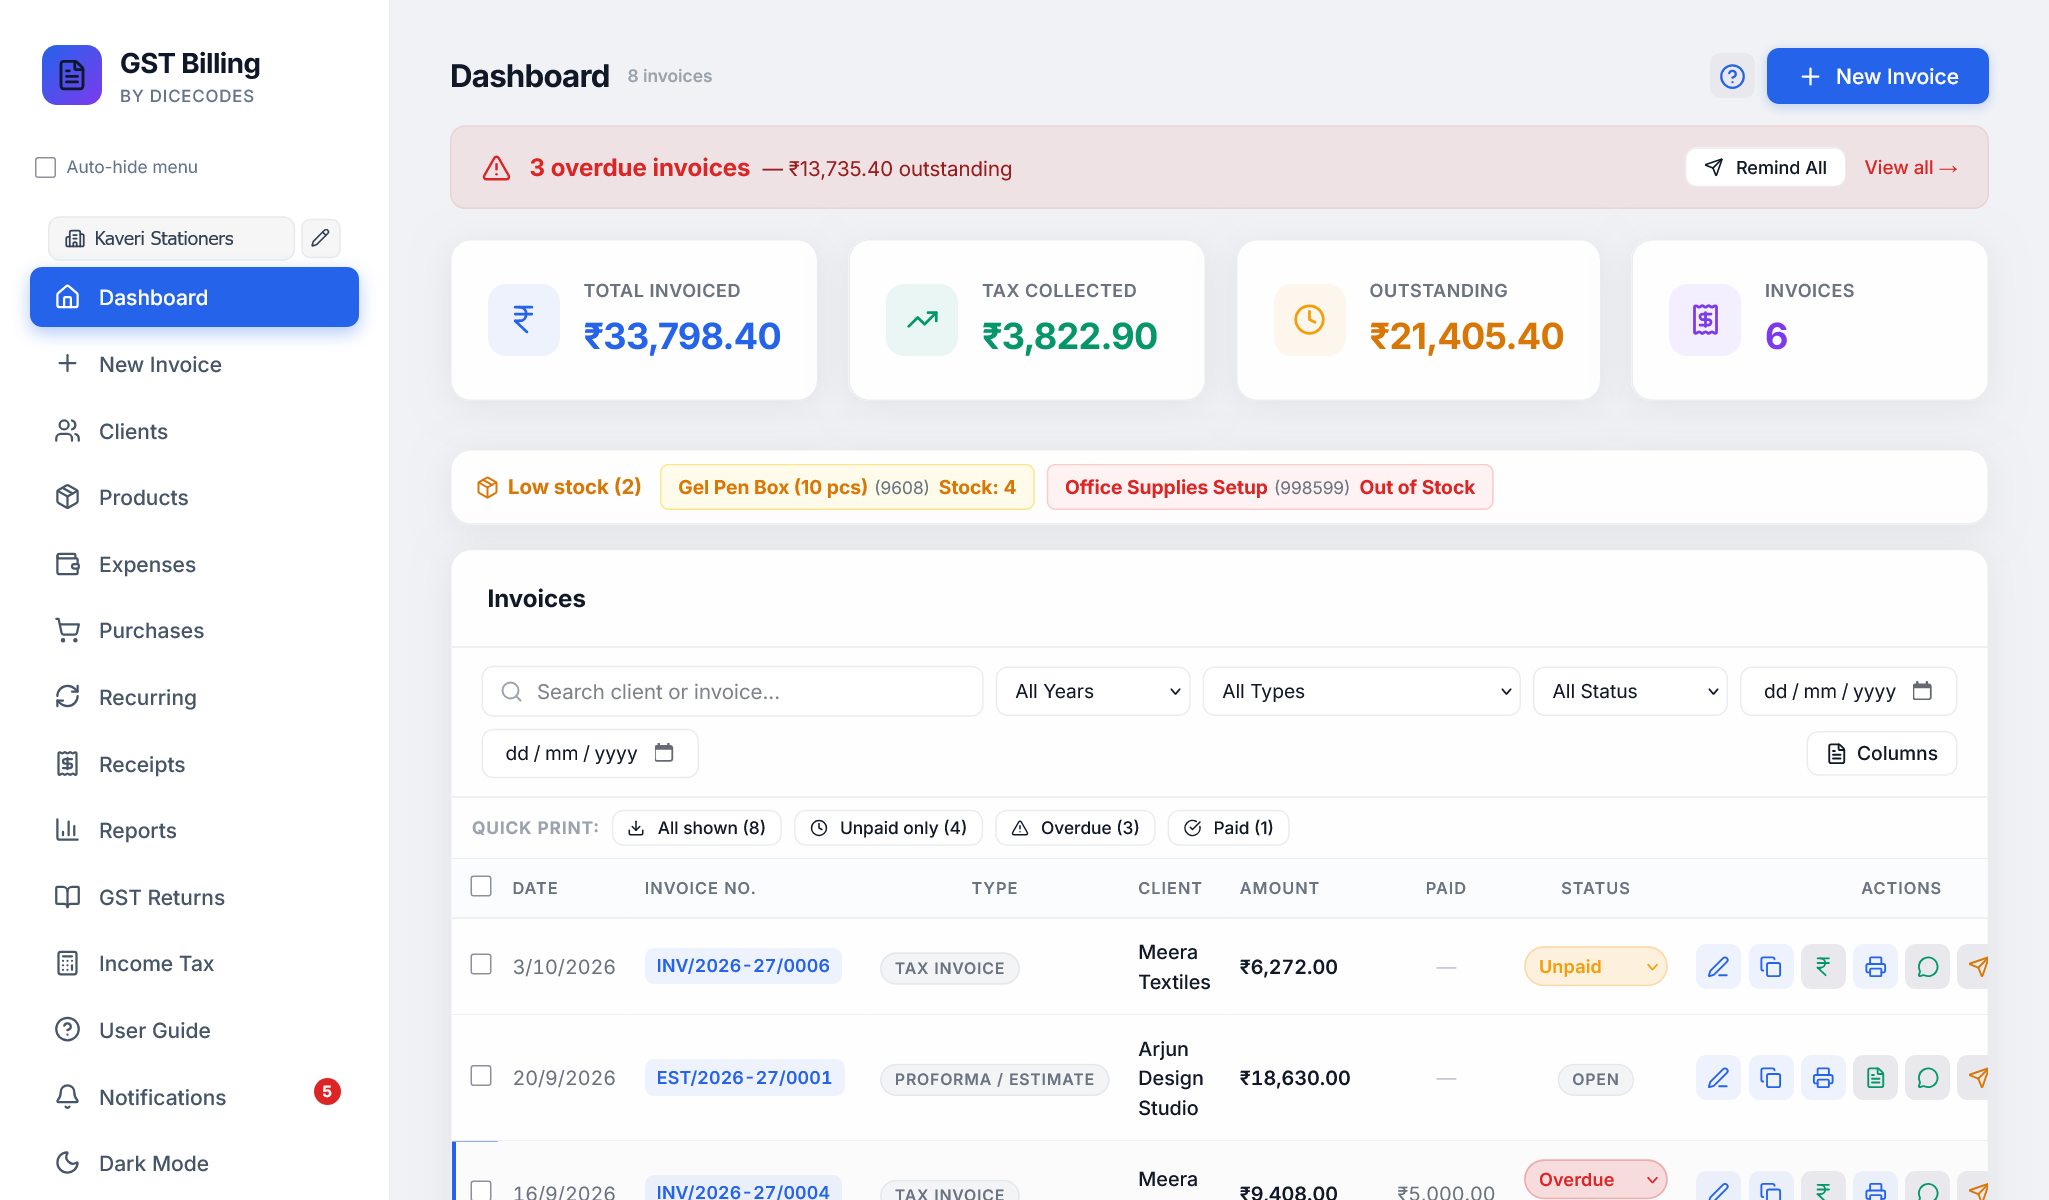
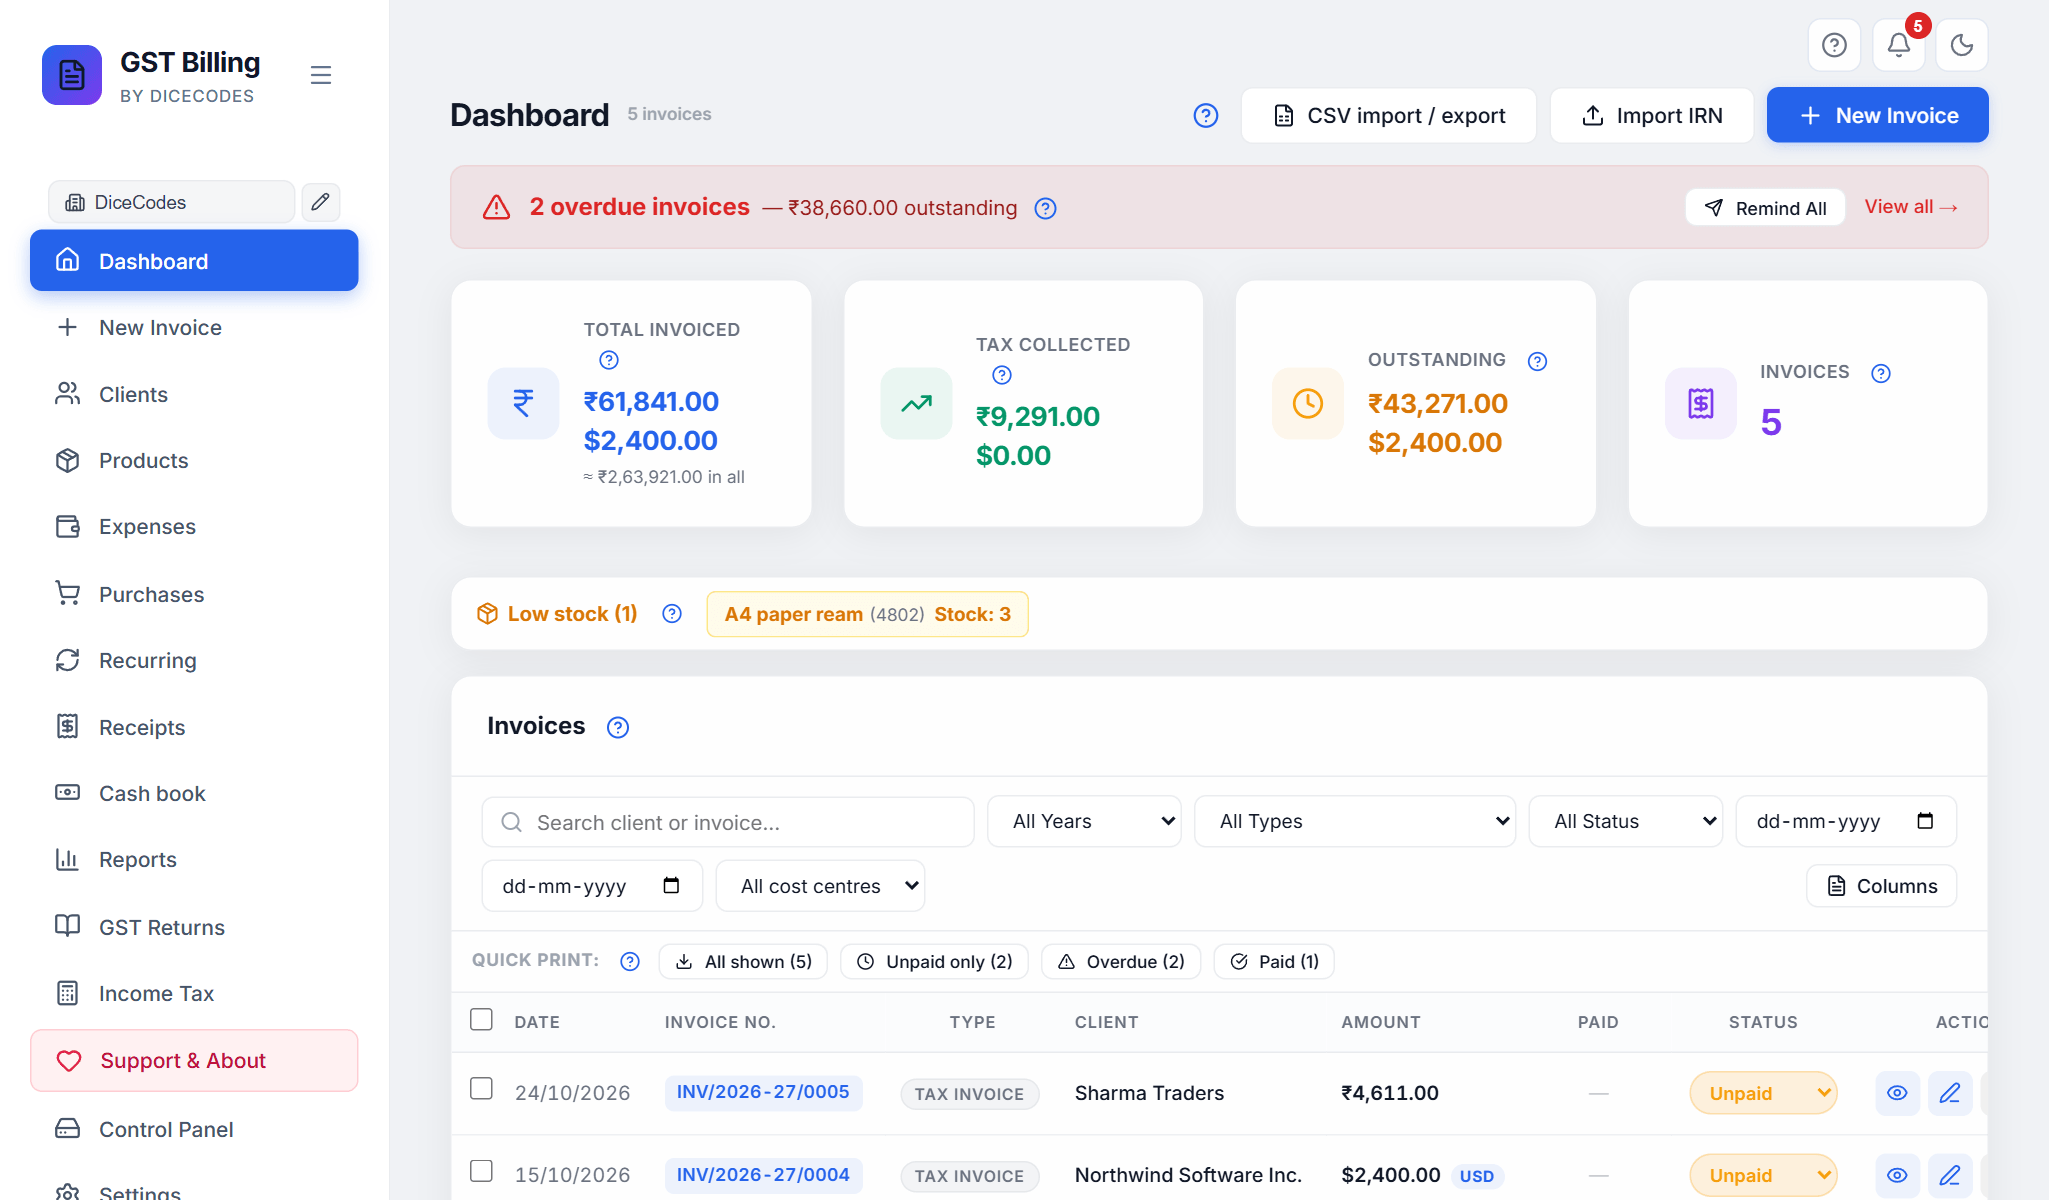
docs: real screenshots from a demo business in the docs and README
Fresh captures of the current app (demo business DiceCodes, fake GSTIN,
bank and UPI): 13 outdated screenshots replaced under the same names (old
sidebar and long Settings page), 13 new ones placed next to the steps
they show (setup wizard, Settings business type / features / LUT, currency
and LUT export invoice, cash book, TDS & TCS report, GSTR-1 exports,
supporters, dark mode, phone width). README Screenshots section now shows
six of them. Narrow and fixed-width figures no longer overflow on phones.

diff --git a/docs-site/assets/style.css b/docs-site/assets/style.css
@@ -243,7 +243,7 @@ pre code { background: none; padding: 0; color: inherit; font-size: .9rem; line-
 
 figure { margin: 1.4rem 0 1.8rem; }
 figure img { display: block; border: 1px solid var(--rule); border-radius: 12px; background: var(--sheet); box-shadow: var(--shadow); }
-figure.narrow img { max-width: 360px; }
+figure.narrow img { max-width: min(360px, 100%); }
 figure.pair { display: flex; gap: 1rem; flex-wrap: wrap; }
 figure.pair img { flex: 1 1 240px; max-width: 320px; }
 figcaption { font-size: .9rem; color: var(--ink-faint); margin-top: .5rem; flex-basis: 100%; }

diff --git a/README.md b/README.md
@@ -86,15 +86,24 @@ From then on, click the Desktop shortcut. To update / backup / restore / move to
 
 ## Screenshots
 
-<div align="center">
+Real screens from the app, with a made-up demo business (DiceCodes, fake GSTIN and bank details).
 
-![Free GST Billing Software dashboard — invoices list with overdue tracking, multi-currency totals, and per-status badges](docs/screenshots/dashboard.png)
+<table>
+  <tr>
+    <td width="50%"><img src="docs-site/assets/img/app-dashboard.png" alt="The Dashboard: overdue banner, totals in rupees and dollars, low stock and the invoice list"><br><sub><b>Dashboard</b>: overdue invoices, totals, low stock and every invoice in one list.</sub></td>
+    <td width="50%"><img src="docs-site/assets/img/app-invoice-editor.png" alt="The invoice screen: the form on the left and the live preview on the right"><br><sub><b>New invoice</b>: fill in the form, the preview updates as you type.</sub></td>
+  </tr>
+  <tr>
+    <td width="50%"><img src="docs-site/assets/img/invoice-lut-export.png" alt="An export invoice in US dollars under a LUT, with the Rule 46 declaration and ARN"><br><sub><b>Exports under LUT</b>: bill in dollars, no IGST, the declaration printed for you.</sub></td>
+    <td width="50%"><img src="docs-site/assets/img/app-gstr1.png" alt="The GSTR-1 tab: B2B sales and the Exports Table 6A for one month"><br><sub><b>GST returns</b>: GSTR-1 and GSTR-3B built from your invoices.</sub></td>
+  </tr>
+  <tr>
+    <td width="50%"><img src="docs-site/assets/img/cash-book.png" alt="The Cash book: cash in hand, a new entry form and the month's entries with a running balance"><br><sub><b>Cash book</b>: cash in and out, with the cash in hand.</sub></td>
+    <td width="50%"><img src="docs-site/assets/img/invoice-editor-dark.png" alt="The invoice screen in dark mode"><br><sub><b>Dark mode</b>: one click at the top right. Invoices still print in normal colours.</sub></td>
+  </tr>
+</table>
 
-*Dashboard view — recent invoices, currency-aware revenue cards, overdue alerts, low-stock indicators, and one-click actions.*
-
-</div>
-
-> 📸 **Want more screenshots?** Open an issue and we'll add captures of the New Invoice form, GSTR-2B Reconciliation tab, Multi-Account Payments manager, PRs welcome too.
+More screenshots, next to the steps they show, in the [documentation](https://dicecodes.com/free-gst-software-documentation/).
 
 ---
 
